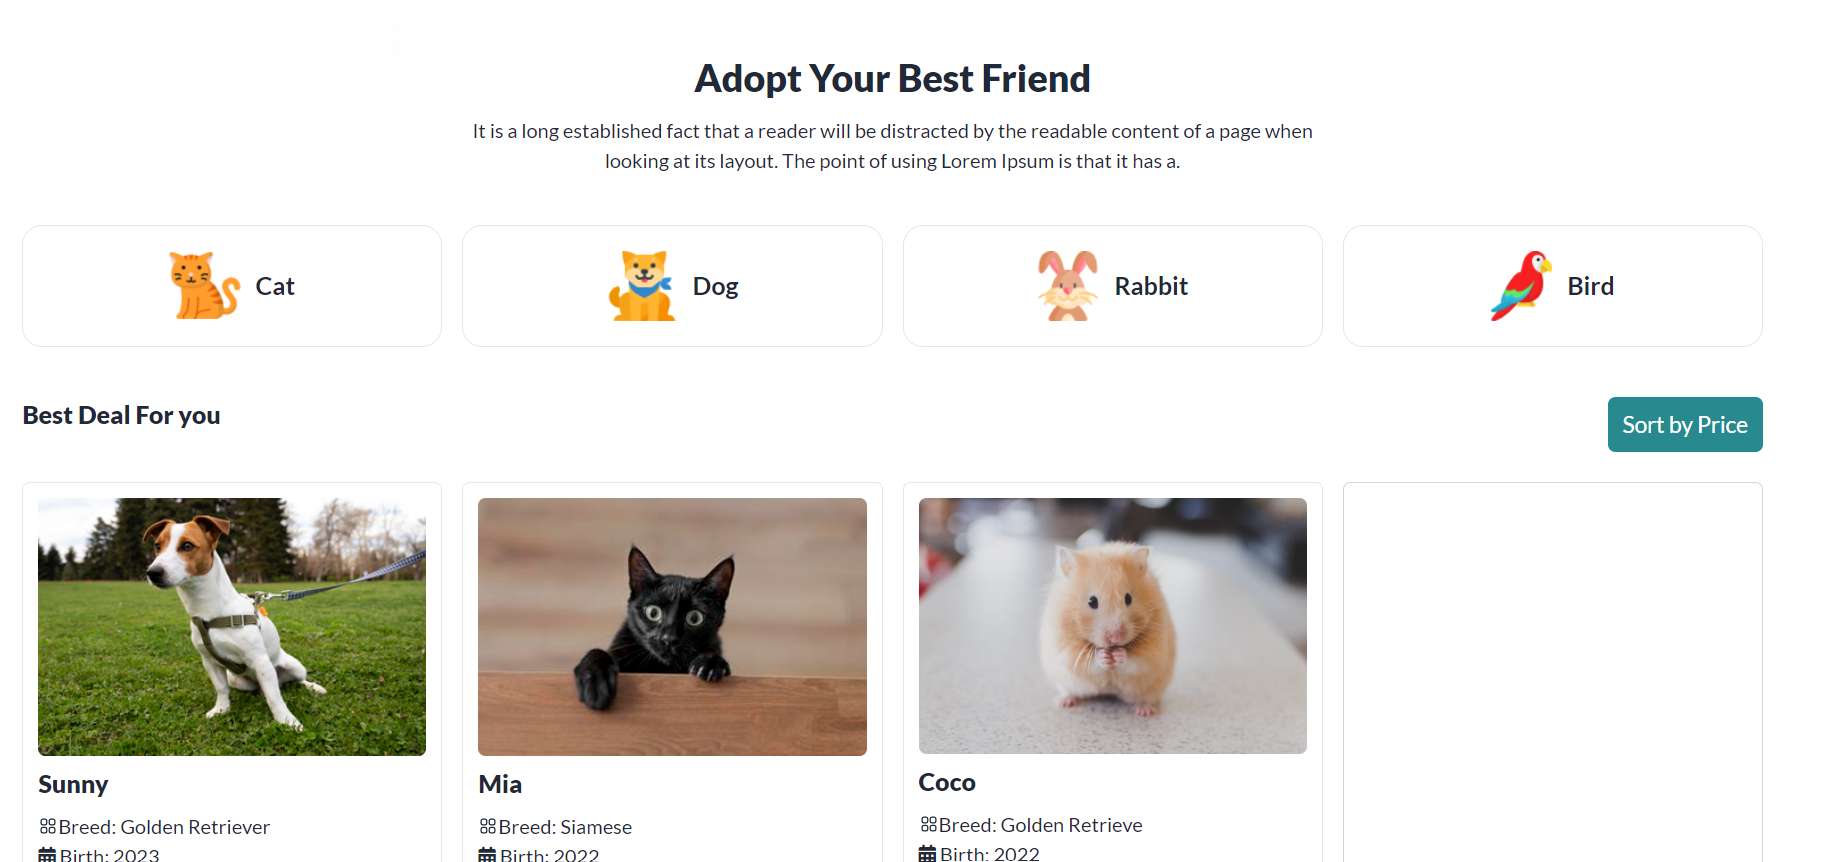
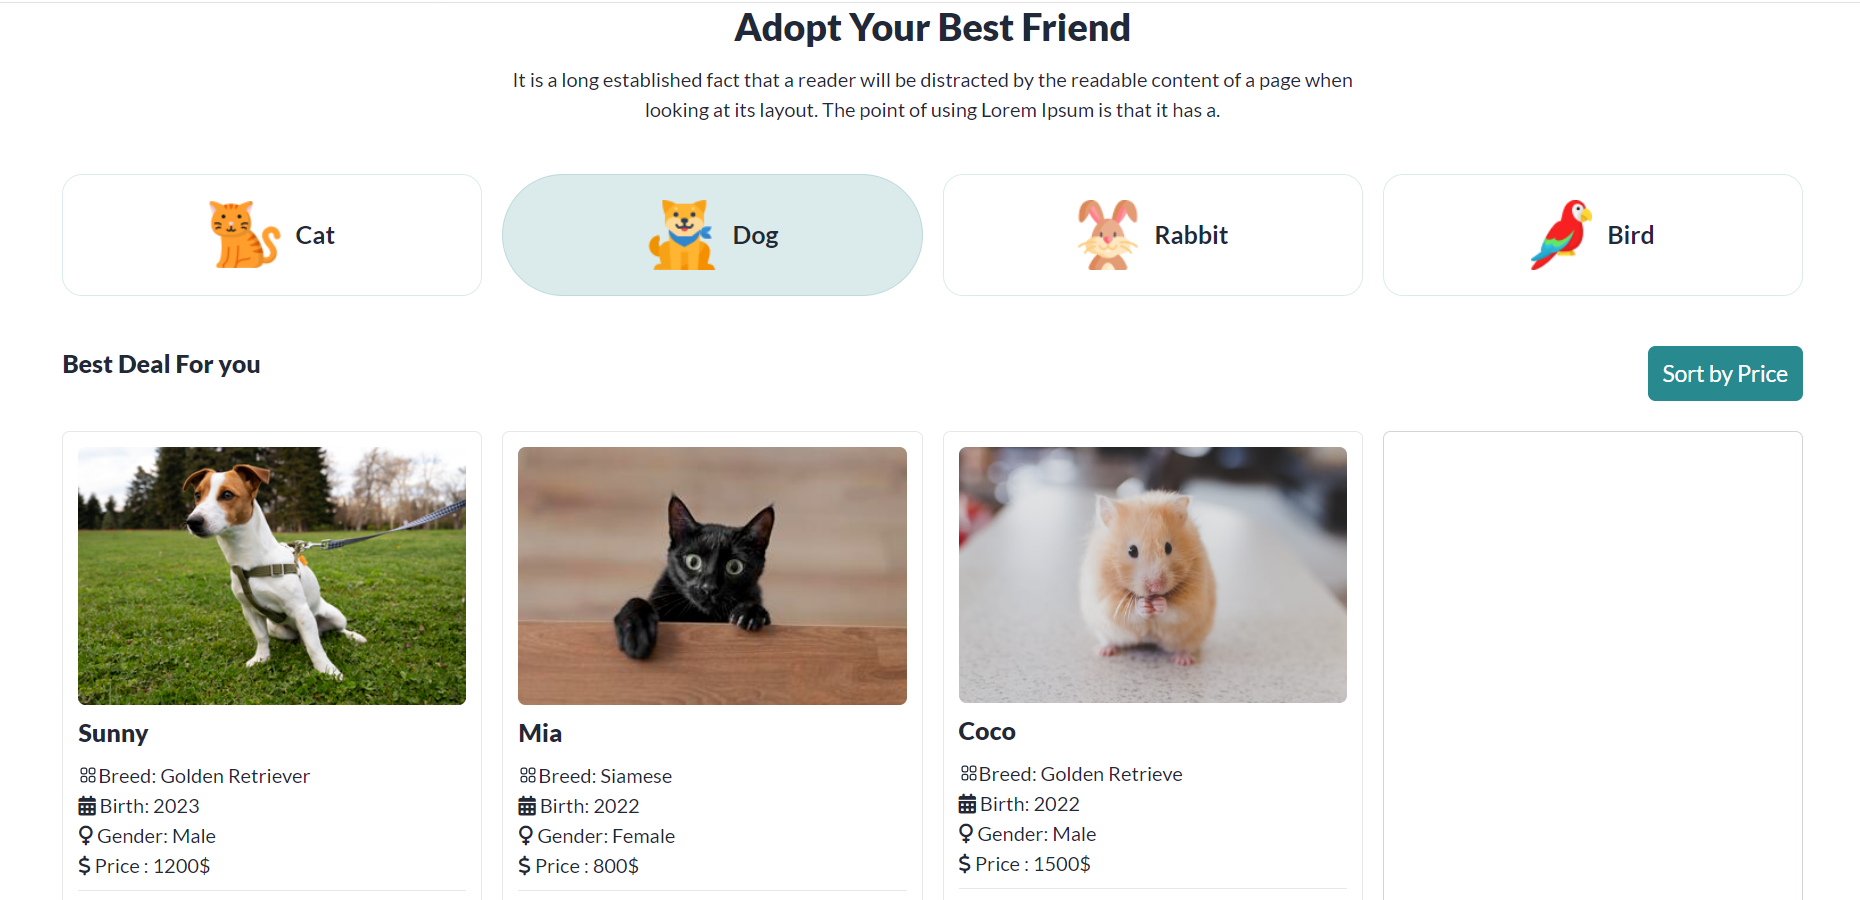
updated in detailsmodal and showed default category

diff --git a/js/pets.js b/js/pets.js
@@ -11,7 +11,7 @@ const loadPets = async () => {
 
         showSpinner(false);
 
-    },3000);
+    },2000);
     const res = await fetch('https://openapi.programming-hero.com/api/peddy/pets');
     const data = await res.json();
     const pets = data.pets;
@@ -21,7 +21,7 @@ const loadPets = async () => {
     // setTimeout(displayPets(pets),5000);
     setTimeout( () =>{
         displayPets(pets);
-    }, 3000);
+    }, 2000);
     // displayPets(pets);
     for (const pet of pets) {
         console.log(pet);
@@ -193,13 +193,7 @@ const displayPets = (pets) => {
                
               <div>
                  <h3 class="font-extrabold ">Details Information</h3>
-                 <p>Meet our lovable pet! Full of energy and affection, this furry friend brightens every day. Check out the details below to learn more about their unique traits!</p>
-                  <ul class="pl-10 list-disc">
-                     
-                  ${detailsListHTML}
-                     
-                  
-                  </ul>
+                 <p>${pet.pet_details}</p>
               </div>
 
             </div>
@@ -249,7 +243,8 @@ const loadCategories = async () => {
 loadCategories();
 const displayCategories = (categories) => {
     const categoryContainer = document.getElementById('category-container');
-
+    
+    let s=1;
     for (const pet of categories) {
         const newButton = document.createElement('button');
         newButton.classList = 'hover:bg-btn border py-5 border-btn rounded-2xl flex gap-3 items-center justify-center';
@@ -264,7 +259,15 @@ const displayCategories = (categories) => {
            <h3 class="text-lg md:text-xl font-bold">${pet.category}</h3>
        `;
         categoryContainer.append(newButton);
+        if(pet.id===2){
+            // alert('hi');
+            document.getElementById('2').classList.add('bg-btn','rounded-[120px]');  
+        }
+        s++;
     }
+    
+   
+
 }
 
 const resetAllCategories = (categories) => {
@@ -287,7 +290,7 @@ const loadPetsByCategoryName = async (categoryName)=>{
 
         showSpinner(false);
 
-    },3000);
+    },2000);
    
     const res = await fetch(`https://openapi.programming-hero.com/api/peddy/category/${categoryName}`)
     const data = await res.json();
@@ -300,7 +303,7 @@ const loadPetsByCategoryName = async (categoryName)=>{
     // setTimeout(displayPets(pets),5000);
     setTimeout( () =>{
         displayPets(pets);
-    }, 3000);
+    }, 2000);
     // displayPets(pets);
     for (const pet of pets) {
         console.log(pet);
@@ -324,6 +327,7 @@ const loadPetsByCategory = (x, categories) => {
     }
     else if(x===2){
         categoryName='dog';
+       
        // alert(categoryName);
     }
     else if(x===3){
@@ -421,3 +425,7 @@ shortByPrice.addEventListener('click', ()=>{
     
     // alert('Short button Clicked');
 })
+
+// document.getElementById('2').classList.add('bg-btn', 'rounded-[120px]');
+
+console.log(document.getElementById('2'));
